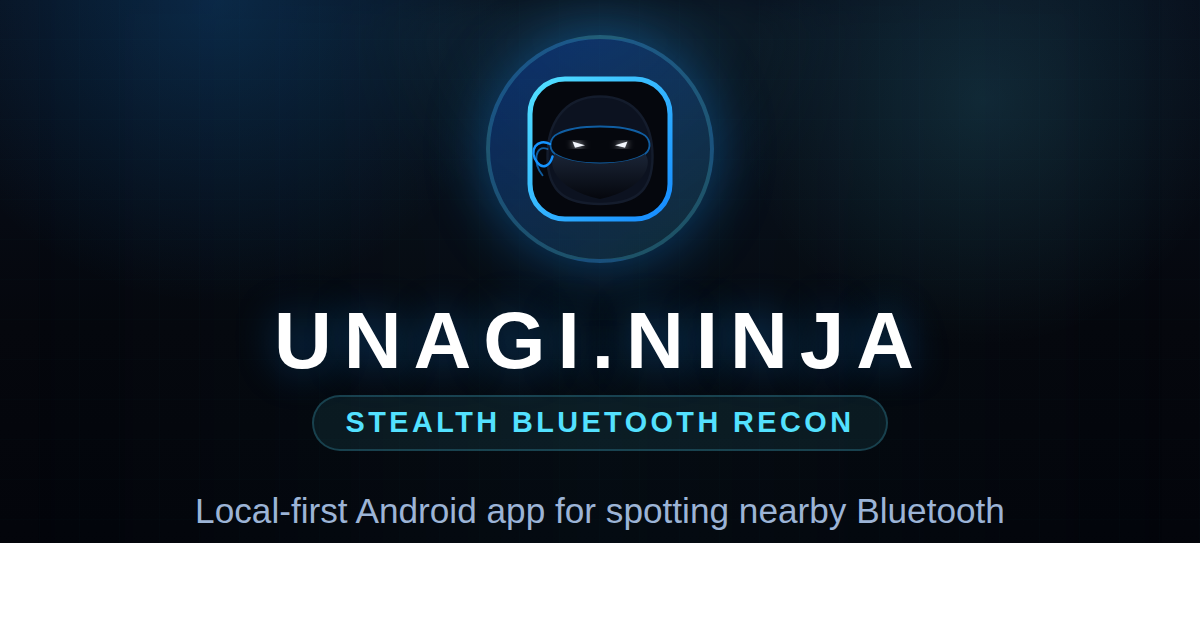
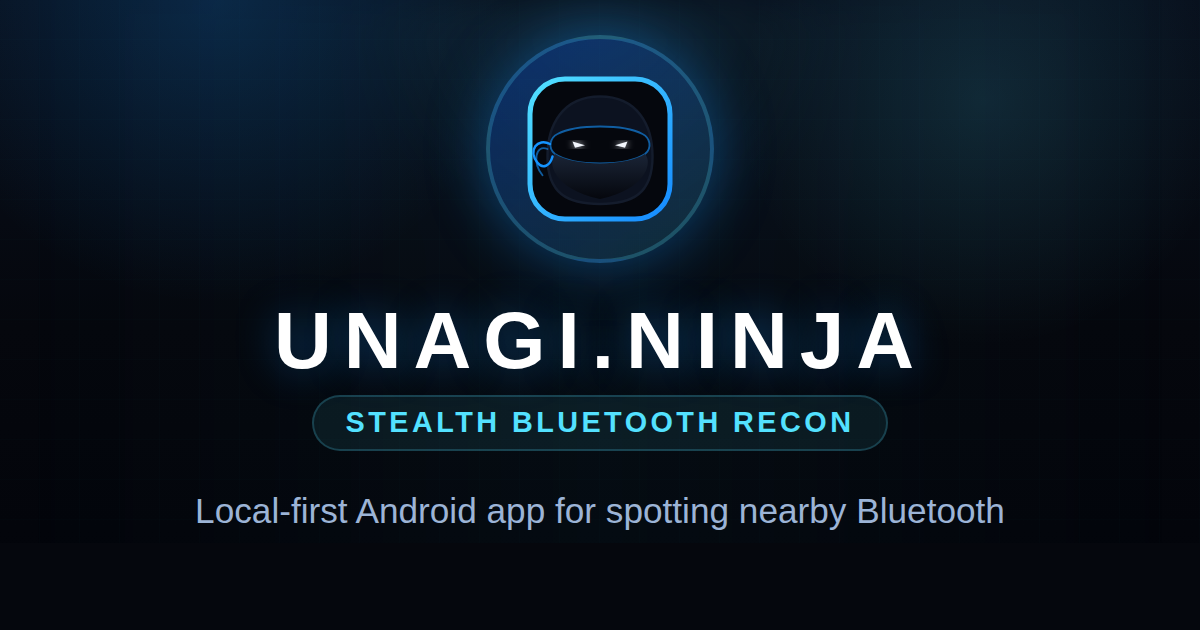
Fix layout bounds on OG template to prevent white border

Changed region(s): [[0.0, 0.8444, 1.0, 1.0]]

diff --git a/og_template.html b/og_template.html
@@ -1,0 +1,155 @@
+<!doctype html>
+<html lang="en">
+<head>
+  <meta charset="utf-8">
+  <style>
+    html, body {
+      margin: 0;
+      padding: 0;
+      width: 1200px;
+      height: 630px;
+      background-color: #05070D;
+      overflow: hidden;
+    }
+    body {
+      margin: 0;
+      width: 1200px;
+      height: 630px;
+      color: #f4f8ff;
+      font-family: "Avenir Next", "Optima", "Segoe UI", sans-serif;
+      background:
+        radial-gradient(circle at 18% 0%, rgba(21, 148, 255, 0.18), transparent 26%),
+        radial-gradient(circle at 82% 16%, rgba(83, 225, 255, 0.12), transparent 22%),
+        linear-gradient(180deg, #08101d 0%, #05070d 52%, #02040a 100%);
+      display: flex;
+      flex-direction: column;
+      align-items: center;
+      justify-content: center;
+      text-align: center;
+      overflow: hidden;
+      position: relative;
+    }
+    body::before,
+    body::after {
+      content: "";
+      position: absolute;
+      inset: 0;
+      pointer-events: none;
+      z-index: 0;
+    }
+    body::before {
+      background:
+        radial-gradient(circle at 50% 0%, rgba(83, 225, 255, 0.08), transparent 28%),
+        linear-gradient(90deg, transparent 0, rgba(83, 225, 255, 0.03) 50%, transparent 100%);
+      filter: blur(20px);
+    }
+    body::after {
+      background:
+        repeating-linear-gradient(90deg, transparent 0 39px, rgba(83, 225, 255, 0.03) 39px 40px),
+        repeating-linear-gradient(180deg, transparent 0 39px, rgba(83, 225, 255, 0.03) 39px 40px);
+      opacity: 0.32;
+    }
+    .content {
+      position: relative;
+      z-index: 1;
+      display: flex;
+      flex-direction: column;
+      align-items: center;
+      gap: 2rem;
+    }
+    .brand-mark {
+      display: inline-grid;
+      place-items: center;
+      width: 220px;
+      height: 220px;
+      border-radius: 999px;
+      background: linear-gradient(145deg, rgba(10, 79, 222, 0.36), rgba(83, 225, 255, 0.14));
+      border: 4px solid rgba(83, 225, 255, 0.22);
+      box-shadow: 0 0 60px rgba(21, 148, 255, 0.4);
+    }
+    .brand-mark svg {
+      width: 160px;
+      height: 160px;
+    }
+    h1 {
+      margin: 0;
+      font-family: "Avenir Next Condensed", "Arial Narrow", "Franklin Gothic Medium", sans-serif;
+      font-size: 5rem;
+      text-transform: uppercase;
+      letter-spacing: 0.15em;
+      text-shadow: 0 0 40px rgba(21, 148, 255, 0.4);
+      color: #ffffff;
+    }
+    .eyebrow {
+      display: inline-block;
+      margin-top: -1.5rem;
+      padding: 0.6rem 2rem;
+      border-radius: 999px;
+      border: 2px solid rgba(83, 225, 255, 0.2);
+      background: rgba(83, 225, 255, 0.08);
+      font-family: "Avenir Next Condensed", "Arial Narrow", "Franklin Gothic Medium", sans-serif;
+      font-size: 1.8rem;
+      font-weight: 700;
+      letter-spacing: 0.12em;
+      text-transform: uppercase;
+      color: #53e1ff;
+    }
+    p {
+      max-width: 900px;
+      margin: 0;
+      font-size: 2.2rem;
+      color: #9cb4d6;
+      line-height: 1.6;
+    }
+  </style>
+</head>
+<body>
+  <div class="content">
+    <div class="brand-mark">
+      <svg xmlns="http://www.w3.org/2000/svg" viewBox="0 0 128 128" role="img" aria-label="Ninja icon">
+        <defs>
+          <linearGradient id="edge" x1="0%" x2="100%" y1="0%" y2="100%">
+            <stop offset="0%" stop-color="#53E1FF"/>
+            <stop offset="100%" stop-color="#1489FF"/>
+          </linearGradient>
+          <linearGradient id="maskGrad" x1="0%" x2="0%" y1="0%" y2="100%">
+            <stop offset="0%" stop-color="#1A2436"/>
+            <stop offset="100%" stop-color="#05070D"/>
+          </linearGradient>
+          <radialGradient id="eyeGlow" cx="50%" cy="50%" r="50%">
+            <stop offset="0%" stop-color="#53E1FF" stop-opacity="0.8"/>
+            <stop offset="100%" stop-color="#1489FF" stop-opacity="0"/>
+          </radialGradient>
+          <filter id="neon" x="-20%" y="-20%" width="140%" height="140%">
+            <feGaussianBlur stdDeviation="3" result="blur"/>
+            <feMerge>
+              <feMergeNode in="blur"/>
+              <feMergeNode in="SourceGraphic"/>
+            </feMerge>
+          </filter>
+        </defs>
+        <rect x="8" y="8" width="112" height="112" rx="28" fill="#05070D" stroke="url(#edge)" stroke-width="4"/>
+        <!-- Ninja hood background -->
+        <path d="M64 22 C34 22, 22 45, 22 70 C22 100, 38 108, 64 108 C90 108, 106 100, 106 70 C106 45, 94 22, 64 22 Z" fill="#0C1220" stroke="#141C2C" stroke-width="2"/>
+        <!-- Face opening mask -->
+        <path d="M30 52 C45 44, 83 44, 98 52 C104 55, 106 63, 100 68 C85 78, 43 78, 28 68 C22 63, 24 55, 30 52 Z" fill="#05070D" stroke="#1594FF" stroke-width="1.5" stroke-opacity="0.6"/>
+        <!-- Lower mask fabric overlay -->
+        <path d="M28 68 C43 78, 85 78, 100 68 C106 74, 102 96, 64 104 C26 96, 22 74, 28 68 Z" fill="url(#maskGrad)"/>
+        <!-- Glowing Eyes -->
+        <g filter="url(#neon)">
+          <!-- Left Eye -->
+          <path d="M42 58 L52 61 L44 63 Z" fill="#F4F8FF"/>
+          <!-- Right Eye -->
+          <path d="M86 58 L76 61 L84 63 Z" fill="#F4F8FF"/>
+        </g>
+        <!-- Headband trails -->
+        <path d="M24 60 C14 55, 6 65, 14 75 C18 80, 24 78, 26 70" fill="none" stroke="#1594FF" stroke-width="2" stroke-linecap="round"/>
+        <path d="M22 64 C12 60, 10 75, 18 85" fill="none" stroke="#1594FF" stroke-width="1.5" stroke-linecap="round" stroke-opacity="0.6"/>
+      </svg>
+    </div>
+    <h1>UNAGI.NINJA</h1>
+    <div class="eyebrow">Stealth Bluetooth Recon</div>
+    <p>Local-first Android app for spotting nearby Bluetooth devices, keeping a durable background-free history.</p>
+  </div>
+</body>
+</html>
